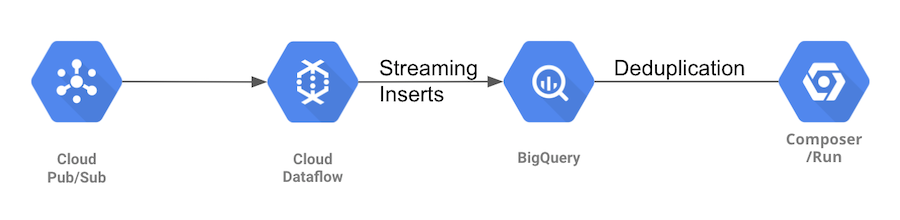
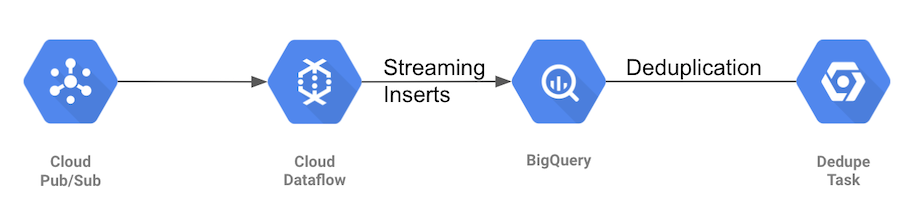
Add deployment scripts and documentation (#10)

diff --git a/README.md b/README.md
@@ -19,7 +19,7 @@ Hedera ETL populates BigQuery dataset with transactions and records generated by
 the pipeline.
 
 - Deduplication: The above ingestion pipeline gives at-least-once guarantee for persisting transaction into BigQuery.
-Duplicates, if inserted, are removed using a cron job.
+Duplicates, if inserted, are removed using a deduplication task.
 
 ## Setup
 
@@ -32,7 +32,8 @@ info about columns.
 
 #### Creating tables
 
-Use `bq` CLI to create the tables.
+`bq` CLI is needed to create the tables. [/create-tables.sh](scripts/create-tables.sh) can be used to create all the
+tables together. Alternatively, tables can be created individually using the commands below.
 
 ###### Transactions table
 
@@ -49,7 +50,7 @@ bq mk \
 
 ###### Errors table
 
-If an error is encountered when inserting a transaction into BigQuery, then the insert it retried. However, errors
+If an error is encountered when inserting a transaction into BigQuery, then the insert is retried. However, errors
 for which retry would not help (for example, table row violating the schema), are not tried again and instead logged
 into errors table.
 
@@ -61,14 +62,28 @@ bq mk \
   hedera-etl-dataflow/src/main/resources/errors_schema.json
 ```
 
-### Apache Beam Pipeline
+##### Deduplication state table
+Deduplication task's state is stored in BigQuery table for persistence. That's because the task already relies on
+BigQuery to be available, and adding dependency on a persistent volume or another database would be not as good.
+
+```bash
+bq mk \
+  --table \
+  --description "BigQuery deduplication task state" \
+  --description "Hedera Dedupe " \
+  project_id:dataset.dedupe_state \
+  hedera-dedupe-bigquery/state-schema.json
+```
+
+
+### ETL to BigQuery
 
 ###### Requirements
 
 1. BigQuery tables for transactions and errors should exist
 2. PubSub topic should exist
-3. If using GCP Dataflow, a user or service account having following roles - BigQuery Data Editor, Dataflow Worker, and
-   Pub/Sub Subscriber
+
+For requirements to deploy on GCP Dataflow, refer [deployment](docs/deployment.md).
 
 ###### Common parameters
 
@@ -98,7 +113,7 @@ mvn compile exec:java -PdirectRunner -Dexec.args=" \
 
 ```bash
 BUCKET_NAME=... # Set your bucket name
-PIPELINE_FOLDER=gs://${BUCKET_NAME}/dataflow/pipelines/pubsub-to-bigquery
+PIPELINE_FOLDER=gs://${BUCKET_NAME}/pipelines/etl-pipeline
 ```
 
 2. Build and upload template to GCS bucket
@@ -118,17 +133,25 @@ mvn compile exec:java \
 3. Start Dataflow job using the template
 
 ```bash
-gcloud dataflow jobs run pubsub-to-bigquery-`date +"%Y%m%d-%H%M%S%z"` \
+gcloud dataflow jobs run etl-pipeline-`date +"%Y%m%d-%H%M%S%z"` \
  --gcs-location=${PIPELINE_FOLDER}/template \
- --parameters \
- "inputSubscription=${SUBSCRIPTION}, \
-  outputTransactionsTable=${TRANSACTIONS_TABLE}, \
-  outputErrorsTable=${ERRORS_TABLE}"
+ --parameters "inputSubscription=${SUBSCRIPTION},outputTransactionsTable=${TRANSACTIONS_TABLE},outputErrorsTable=${ERRORS_TABLE}"
 ```
+Controller service account can be configured by adding
+`--service-account-email=my-service-account-name@<project-id>.iam.gserviceaccount.com`. See
+[Controller service account](https://cloud.google.com/dataflow/docs/concepts/security-and-permissions#controller_service_account)
+for more details.
 
 ### Deduplication
 
-Work in progress.
+Deduplication task trails the transactions table to ensure that two rows never have same consensusTimestamp. Due to
+at-least once guarantee of PubSub and Hedera Mirror Node (publishing to pubsub), it's possible that in rare cases,
+single transaction gets inserted more than once. Deduplication task removes these duplicates to ensure exactly-once
+guarantee. See class comments on [DedupeRunner](hedera-dedupe-bigquery/src/main/java/com/hedera/dedupe/DedupeRunner.java)
+for more details.
+
+## More documentation
+[Deployment](docs/deployment.md)
 
 ## Code of Conduct
 This project is governed by the [Contributor Covenant Code of Conduct](CODE_OF_CONDUCT.md). By participating, you are

diff --git a/docs/deployment.md b/docs/deployment.md
@@ -1,0 +1,35 @@
+# Deployment
+
+## Requirements:
+1. BigQuery tables : transactions, errors, dedupe_state
+1. PubSub topic for transactions
+1. GCS bucket : Used for dataflow templates, staging and as temp location
+1. ETL Pipeline from PubSub to BigQuery:
+    1. PubSub subscription
+    1. Service account with following roles: BigQuery Data Editor, Dataflow Worker, Pub/Sub Subscriber, and Storage
+       Object Admin
+1. Deduplication Task
+    1. Service account with following roles: BigQuery Data Editor, BigQuery Job User, Monitoring Metric
+       Writer
+1. Mirror Importer
+    1. Service account with following roles: PubSub Publisher
+
+Resource creation can be automated using [setup-gcp-resources.sh](../scripts/setup-gcp-resources.sh).
+[Google Cloud SDK](https://cloud.google.com/sdk/docs) is required to run the script.
+
+## Steps
+
+1. Deploy ETL pipeline
+
+Use [deploy-etl-pipeline.sh](../scripts/deploy-etl-pipeline.sh) script to deploy the etl pipeline to GCP Dataflow.
+
+1. Deploy Deduplication task
+
+TODO
+
+1. Deploy Hedera Mirror Node Importer to publish transactions to the pubsub topic. See
+Mirror Nodes [installation](https://github.com/hashgraph/hedera-mirror-node/blob/master/docs/installation.md) and
+[configuration](https://github.com/hashgraph/hedera-mirror-node/blob/master/docs/configuration.md#importer) for more
+details.
+
+
